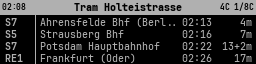
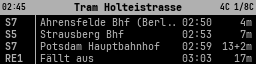
fix: update departure handling to keep cancelled departures and adjust related tests

diff --git a/src/infodisplay/renderer.py b/src/infodisplay/renderer.py
@@ -384,10 +384,12 @@ class DepartureRenderer:
         x_dep_time = x_time - min_area_w - pad - dep_time_w
 
         # Blink state for hurry zone (walking_minutes - 3 to walking_minutes)
+        # Cancelled departures never blink
         minutes = dep.minutes_until
         hurry_threshold = max(0, walking_minutes - 3)
         blink_on = (
-            minutes is not None
+            not dep.is_cancelled
+            and minutes is not None
             and hurry_threshold <= minutes <= walking_minutes
             and time.time() % BLINK_PERIOD < BLINK_PERIOD / 2
         )
@@ -411,12 +413,15 @@ class DepartureRenderer:
         else:
             max_w_ziel = x_dep_time - x_ziel - pad
 
-        # Ziel (destination)
-        ziel_text = self._truncate_text(
-            dep.direction or "",
-            self.font_departure,
-            max_w_ziel,
-        )
+        # Ziel (destination) — cancelled departures alternate with "Fällt aus"
+        if dep.is_cancelled and time.time() % BLINK_PERIOD >= BLINK_PERIOD / 2:
+            ziel_text = "Fällt aus"
+        else:
+            ziel_text = self._truncate_text(
+                dep.direction or "",
+                self.font_departure,
+                max_w_ziel,
+            )
         if ziel_text:
             draw.text(
                 (x_ziel, y), ziel_text, fill=AMBER, font=self.font_departure
@@ -598,7 +603,7 @@ def run_render_test(config=None) -> str:
             delay_seconds=0,
             platform="3",
             remarks=[],
-            is_cancelled=False,
+            is_cancelled=True,
         ),
     ]
 

diff --git a/tests/test_api.py b/tests/test_api.py
@@ -108,8 +108,6 @@ class TestFetchParsedDepartures:
 
         result = client.fetch_parsed_departures("900023201")
         assert all(isinstance(d, Departure) for d in result)
-        # Cancelled departures are filtered out
-        assert all(not d.is_cancelled for d in result)
 
     @patch("infodisplay.api.requests.Session.get")
     def test_sorted_by_when(self, mock_get, client, sample_departures_list):
@@ -124,7 +122,7 @@ class TestFetchParsedDepartures:
         assert times == sorted(times)
 
     @patch("infodisplay.api.requests.Session.get")
-    def test_filters_cancelled(self, mock_get, client):
+    def test_keeps_cancelled(self, mock_get, client):
         mock_resp = MagicMock()
         mock_resp.json.return_value = {
             "departures": [
@@ -144,4 +142,5 @@ class TestFetchParsedDepartures:
         mock_get.return_value = mock_resp
 
         result = client.fetch_parsed_departures("900023201")
-        assert len(result) == 0
+        assert len(result) == 1
+        assert result[0].is_cancelled is True

diff --git a/src/infodisplay/api.py b/src/infodisplay/api.py
@@ -71,9 +71,8 @@ class BVGClient:
         return data.get("name", f"Station {station_id}")
 
     def fetch_parsed_departures(self, station_id: str) -> list[Departure]:
-        """Fetch departures, parse, filter cancelled, and sort by time."""
+        """Fetch departures, parse, and sort by time."""
         raw_list = self.get_departures(station_id)
         departures = [parse_departure(raw) for raw in raw_list]
-        departures = [d for d in departures if not d.is_cancelled]
         departures.sort(key=lambda d: d.when or d.planned_when or "")
         return departures

diff --git a/README.md b/README.md
@@ -163,6 +163,10 @@ Current temperature, daily low/high, and 12-hour precipitation forecast are show
 
 Departures within a "hurry zone" blink their time columns to signal you might still catch the train if you hurry. The hurry zone is `walking_minutes - 3` to `walking_minutes`. For example, with `walking_minutes: 10`, departures arriving in 7–10 minutes will blink. Departures below the hurry threshold are filtered out entirely.
 
+### Cancelled Departures
+
+Cancelled departures are shown with the destination alternating between the original destination and "Fällt aus" every second, so you can see what was scheduled but won't run.
+
 ### Line Prefixes
 
 - Tram lines are prefixed with **M** (MetroTram branding): `21` → `M21`
